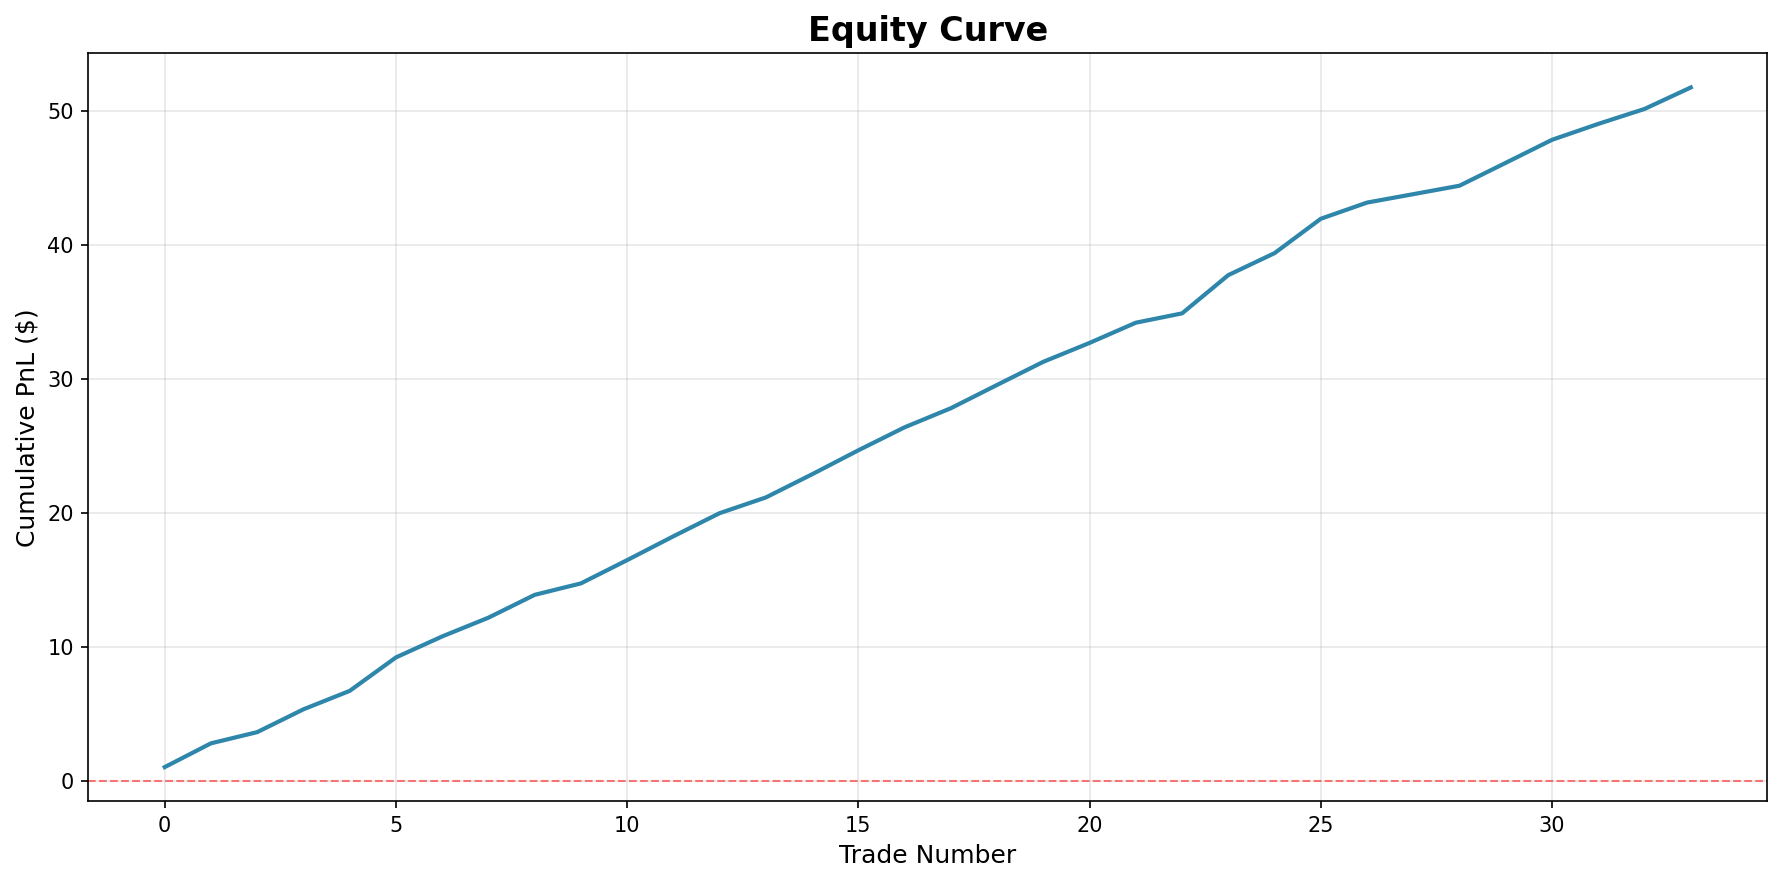
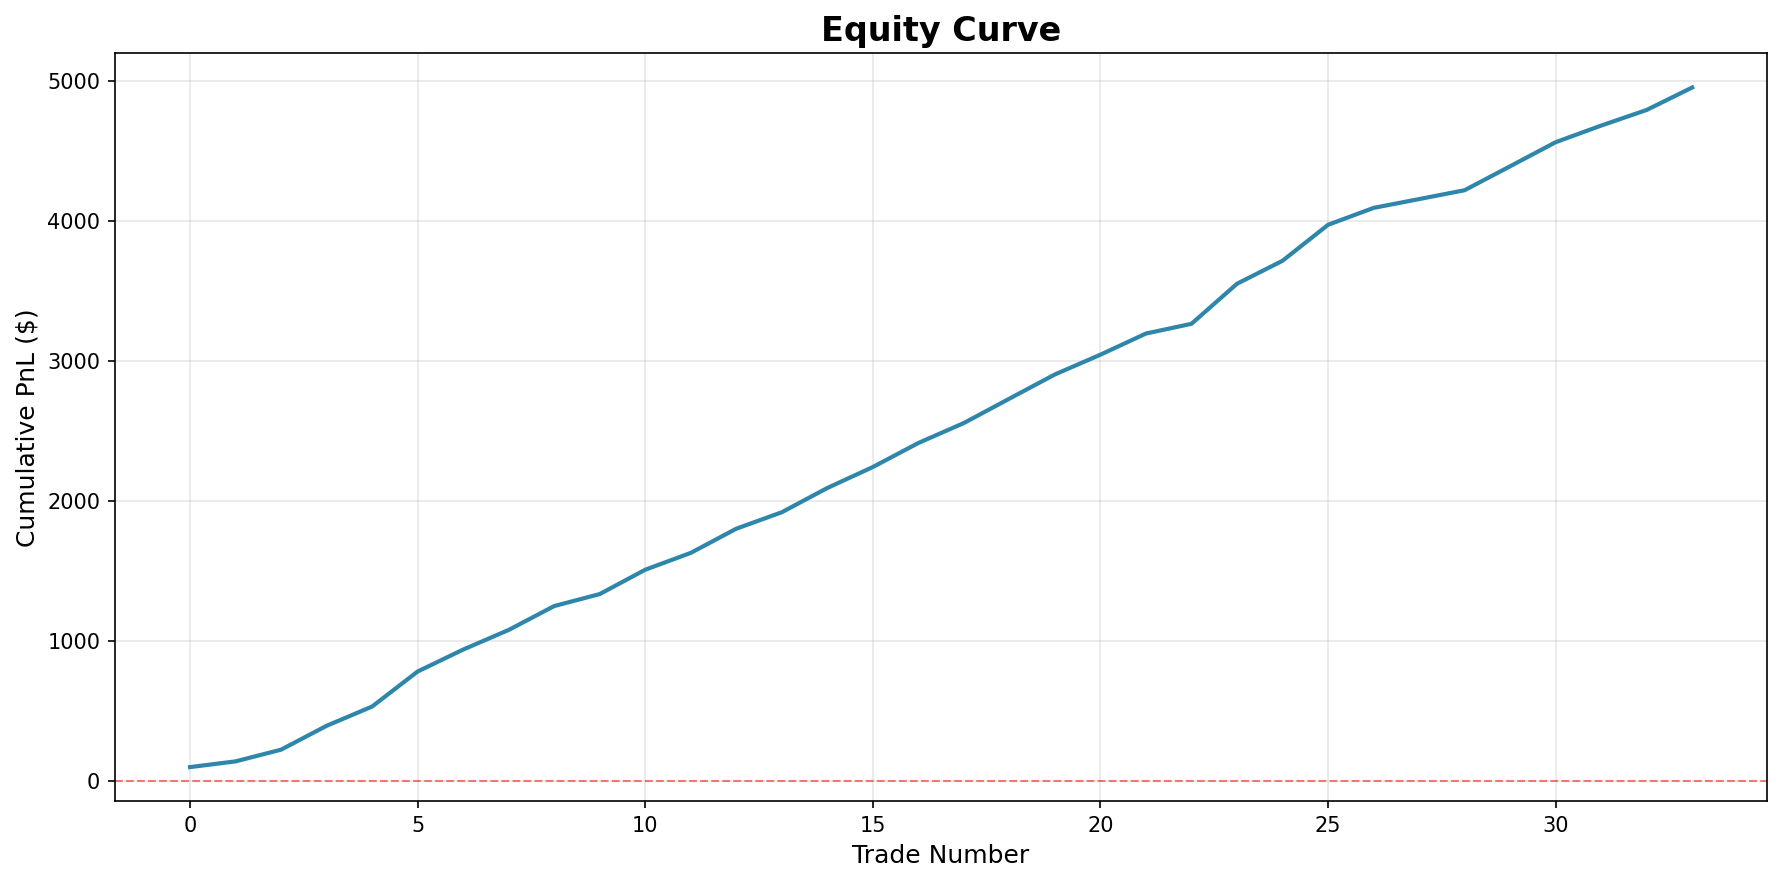
Correctly calculate option contract costs and payoffs
Adjusted option pricing calculations in `engine/options_engine.py` to account for the 100-share multiplier per contract, fixing issues with theoretical cost, bid-ask spread, and payoff calculations. Updated tests in `tests/test_options_engine.py` to reflect realistic contract-level pricing ranges.

Replit-Commit-Author: Agent
Replit-Commit-Session-Id: 31ba6f98-8019-43b9-b99a-c0d3e71f4622
Replit-Commit-Checkpoint-Type: full_checkpoint
Replit-Commit-Event-Id: c71bb6d5-b87e-4fac-97f0-fe115297cdf9

diff --git a/engine/options_engine.py b/engine/options_engine.py
@@ -37,9 +37,11 @@ class OptionPosition:
     
     def __post_init__(self):
         if self.entry_cost == 0.0:
-            # Calculate theoretical premium cost
+            CONTRACT_MULTIPLIER = 100  # Options contracts represent 100 shares
+            
+            # Calculate theoretical premium cost (convert per-share to per-contract)
             theoretical_cost = sum(
-                opt.premium * opt.quantity * (1 if opt.is_long else -1)
+                opt.premium * opt.quantity * CONTRACT_MULTIPLIER * (1 if opt.is_long else -1)
                 for opt in self.options
             )
             
@@ -48,9 +50,9 @@ class OptionPosition:
             commission = 0.65 * total_legs  # $0.65 per contract
             slippage = 0.05 * total_legs    # ~$0.05 per contract
             
-            # Bid-ask spread: pay 2% more on buys, receive 2% less on sells
+            # Bid-ask spread: 2% of contract value
             bid_ask_cost = sum(
-                abs(opt.premium) * opt.quantity * 0.02
+                abs(opt.premium * CONTRACT_MULTIPLIER) * opt.quantity * 0.02
                 for opt in self.options
             )
             
@@ -404,8 +406,9 @@ def calculate_payoff_at_price(position: OptionPosition, price: float) -> float:
         price: Underlying price
         
     Returns:
-        Payoff (positive = profit, negative = loss)
+        Payoff in dollars (positive = profit, negative = loss)
     """
+    CONTRACT_MULTIPLIER = 100  # Options contracts represent 100 shares
     total_payoff = 0.0
     
     for opt in position.options:
@@ -414,12 +417,14 @@ def calculate_payoff_at_price(position: OptionPosition, price: float) -> float:
         else:
             intrinsic = max(0, opt.strike - price)
         
-        payoff = intrinsic - opt.premium
+        # Payoff per share, then multiply by contract size
+        payoff_per_share = intrinsic - opt.premium
+        payoff_per_contract = payoff_per_share * CONTRACT_MULTIPLIER
         
         if opt.is_long:
-            total_payoff += payoff * opt.quantity
+            total_payoff += payoff_per_contract * opt.quantity
         else:
-            total_payoff -= payoff * opt.quantity
+            total_payoff -= payoff_per_contract * opt.quantity
     
     return total_payoff
 

diff --git a/tests/test_options_engine.py b/tests/test_options_engine.py
@@ -74,16 +74,13 @@ def test_60min_option_pricing_realistic():
     # Build long call
     position = build_long_option('long', spot, strikes, expiry, entry_time)
     
-    # Verify premium is realistic (at least $0.10, the minimum floor)
-    assert position.entry_cost >= 0.10, f"60-min option premium too low: ${position.entry_cost:.2f}"
+    # Verify cost is in realistic contract-level range ($100-$500 for 60-min ATM)
+    # Per-share premium ~$3 × 100 shares + commissions/slippage = ~$310-320
+    assert position.entry_cost >= 100, f"60-min contract cost too low: ${position.entry_cost:.2f}"
+    assert position.entry_cost < 500, f"60-min contract cost too high: ${position.entry_cost:.2f}"
     
-    # Verify premium is not excessive (< $5.00 for ATM 60-min call)
-    # This prevents the original $0.01 bug while allowing reasonable pricing
-    assert position.entry_cost < 5.00, f"60-min option premium too high: ${position.entry_cost:.2f}"
-    
-    # Most importantly: verify this prevents 67R outliers
-    # With $3 cost and $1.56 move to target, max R = 1.56/3 = 0.52R (losing trade)
-    # This is acceptable - not all trades will be profitable with higher entry costs
+    # Most importantly: verify this prevents unrealistic 67R outliers
+    # Real contract costs make R-multiples realistic
     
     # Verify it's properly calculated using fractional days (not 0 days)
     # 60 minutes = 0.042 days, which should produce reasonable time value
